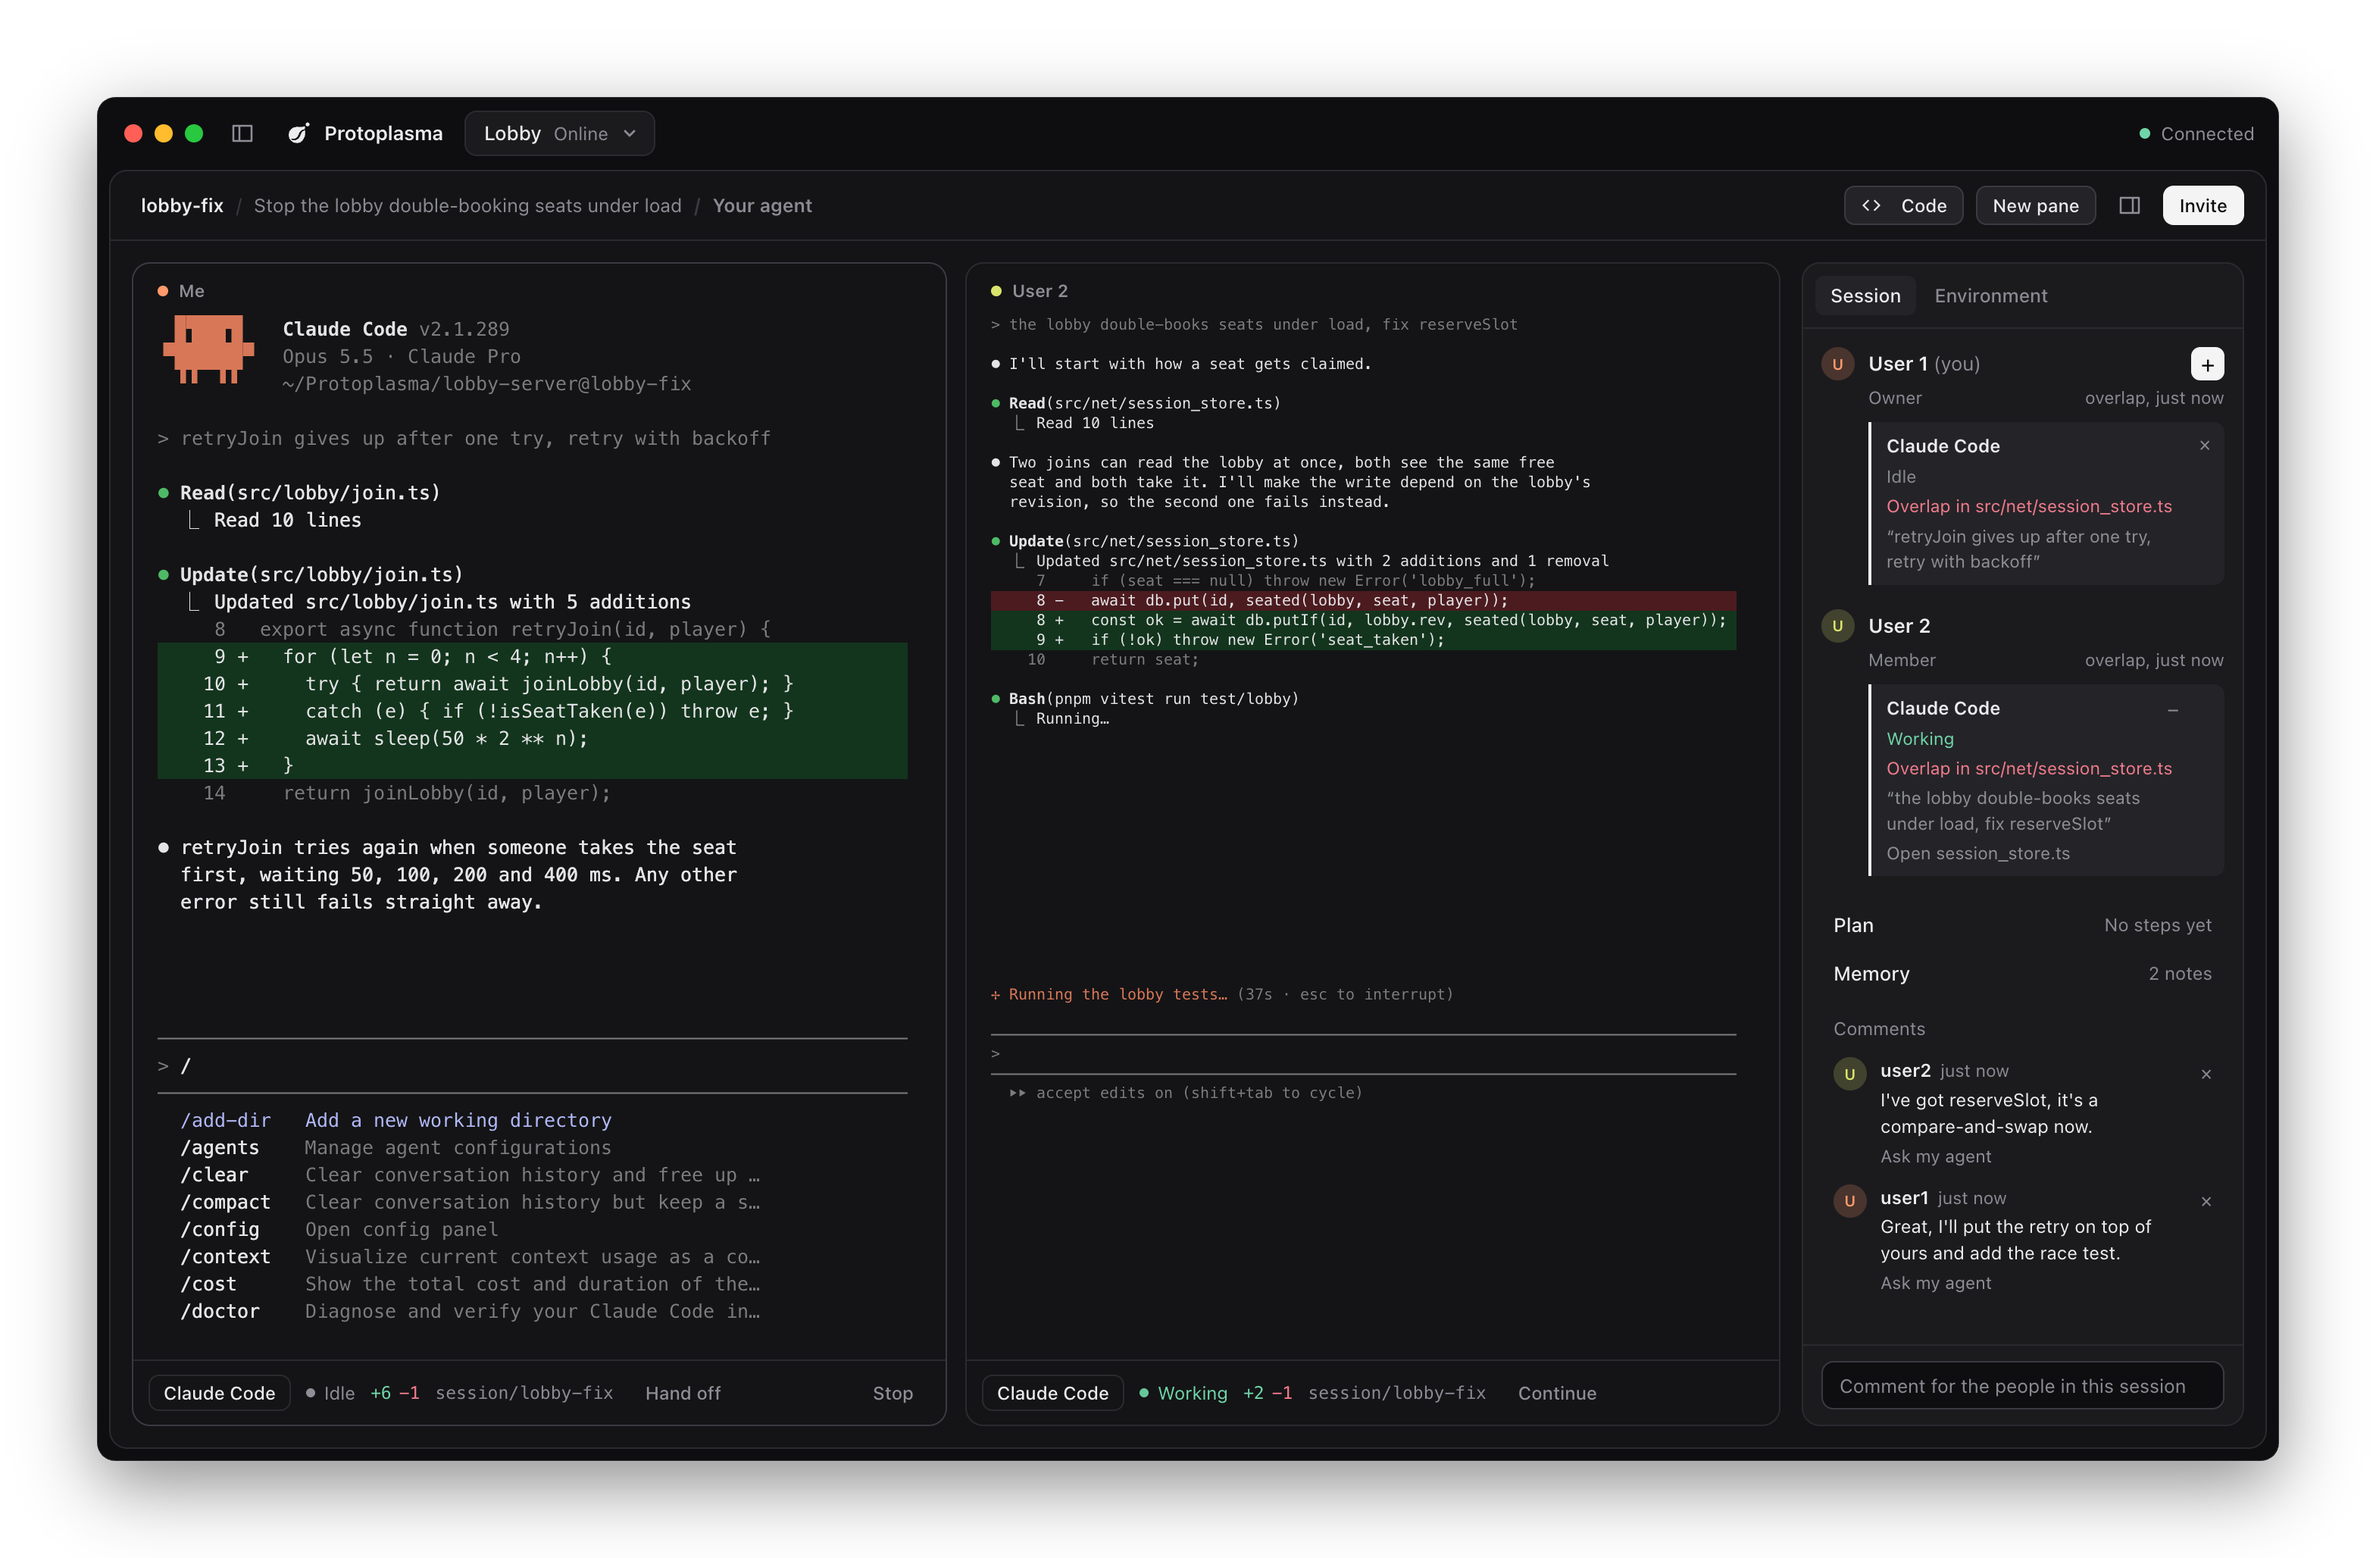
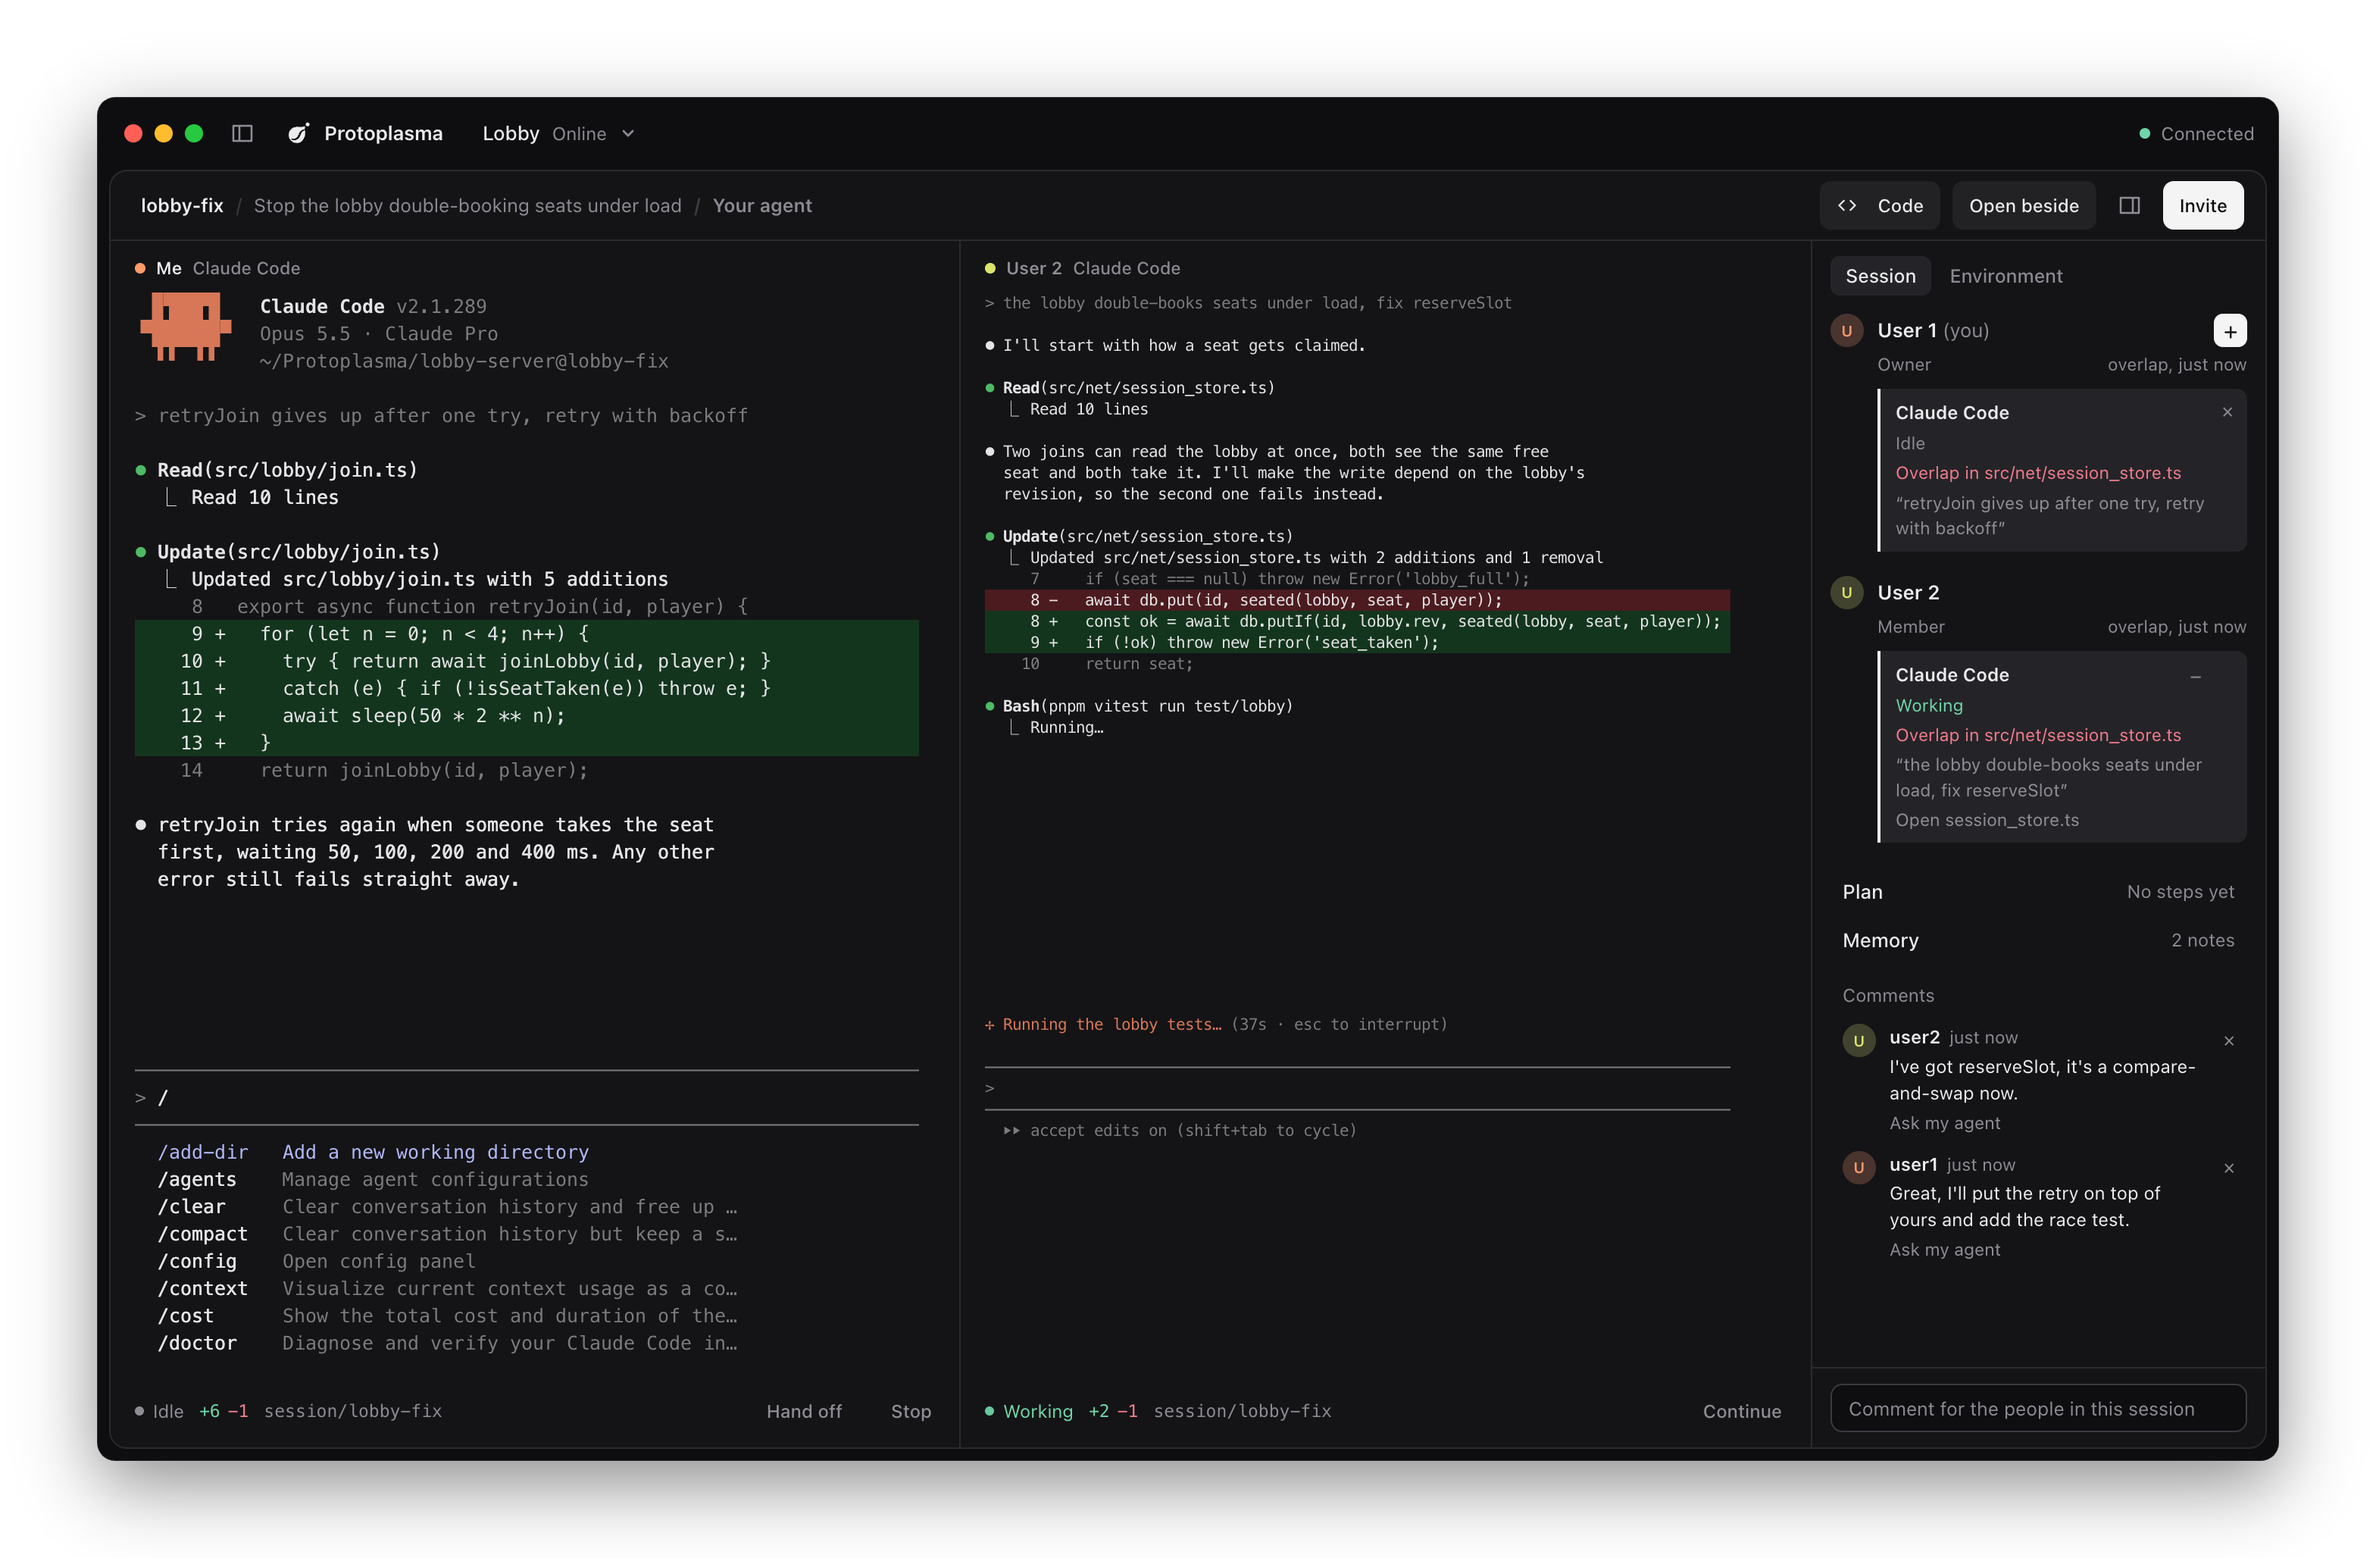
README pictures and demo in the new look, crops re-measured; 0.7.0 notes and the handoff cover the redesign

diff --git a/scripts/readme-art/overlap.html b/scripts/readme-art/overlap.html
@@ -15,13 +15,13 @@
     <div class="glow" style="left: 520px; top: 220px; width: 360px; height: 360px"></div>
   </div>
   <!-- the sidebar alert, the session card on the board, and both agents in the session panel -->
-  <div class="crop" data-src="sessions" data-x="18" data-y="246" data-w="458" data-h="114" data-s="1.5" style="left: 132px; top: 104px; --ring: var(--red-ring)"></div>
-  <div class="crop" data-src="sessions" data-x="1316" data-y="244" data-w="727" data-h="526" data-s="1.5" style="left: 132px; top: 214px">
-    <i class="mark" data-x="1331" data-y="592" data-w="697" data-h="54"></i>
+  <div class="crop" data-src="sessions" data-x="16" data-y="242" data-w="464" data-h="150" data-s="1.5" style="left: 132px; top: 104px; --ring: var(--red-ring)"></div>
+  <div class="crop" data-src="sessions" data-x="1316" data-y="244" data-w="727" data-h="452" data-s="1.5" style="left: 132px; top: 234px">
+    <i class="mark" data-x="1331" data-y="510" data-w="697" data-h="54"></i>
   </div>
-  <div class="crop" data-src="session" data-x="2252" data-y="220" data-w="580" data-h="826" data-s="1.4" style="left: 740px; top: 68px">
-    <i class="mark" data-x="2354" data-y="516" data-w="408" data-h="44"></i>
-    <i class="mark" data-x="2354" data-y="863" data-w="408" data-h="44"></i>
+  <div class="crop" data-src="session" data-x="2262" data-y="220" data-w="592" data-h="826" data-s="1.4" style="left: 740px; top: 68px">
+    <i class="mark" data-x="2364" data-y="474" data-w="400" data-h="44"></i>
+    <i class="mark" data-x="2364" data-y="819" data-w="400" data-h="44"></i>
   </div>
 </div>
 <script src="crop.js"></script>

diff --git a/scripts/readme-art/agents.html b/scripts/readme-art/agents.html
@@ -14,8 +14,8 @@
     <div class="glow" style="left: 600px; top: 200px; width: 640px; height: 520px"></div>
   </div>
   <!-- your Claude Code: its banner and an edit, then its own / menu and status bar -->
-  <div class="crop" data-src="session" data-x="46" data-y="218" data-w="1076" data-h="876" data-s="1.1" style="left: 90px; top: 24px"></div>
-  <div class="crop" data-src="session" data-x="46" data-y="1244" data-w="1076" data-h="510" data-s="1.05" style="left: 600px; top: 420px"></div>
+  <div class="crop" data-src="session" data-x="18" data-y="192" data-w="1120" data-h="900" data-s="1.1" style="left: 90px; top: 24px"></div>
+  <div class="crop" data-src="session" data-x="18" data-y="1250" data-w="1120" data-h="530" data-s="1.05" style="left: 600px; top: 420px"></div>
 </div>
 <script src="crop.js"></script>
 </body>

diff --git a/scripts/readme-art/code.html b/scripts/readme-art/code.html
@@ -16,7 +16,7 @@
   <!-- the Explorer and the editor -->
   <div class="crop" data-src="code" data-x="501" data-y="188" data-w="1781" data-h="1000" data-s="1.15" style="left: 72px; top: 36px"></div>
   <!-- the session panel under the code, beside your agent -->
-  <div class="crop" data-src="code" data-x="2248" data-y="1215" data-w="598" data-h="545" data-s="1.05" style="left: 840px; top: 382px"></div>
+  <div class="crop" data-src="code" data-x="2263" data-y="1215" data-w="584" data-h="545" data-s="1.05" style="left: 840px; top: 382px"></div>
 </div>
 <script src="crop.js"></script>
 </body>

diff --git a/HANDOFF.md b/HANDOFF.md
@@ -1,9 +1,28 @@
-# Handoff: Protoplasma IDE, 16 November 2026
+# Handoff: Protoplasma IDE, 16 November 2026 (evening)
 
 Read this first in a new session, then [AGENTS.md](AGENTS.md) for how the code fits together. What the last sessions
 did: [docs/sessions/2026-10-29.md](docs/sessions/2026-10-29.md) (the second security audit),
 [docs/sessions/2026-10-26.md](docs/sessions/2026-10-26.md) (19–26 Oct) and
 [docs/sessions/2026-10-18.md](docs/sessions/2026-10-18.md) (the first security audit).
+
+## 16 Nov 2026: the redesign, on `claude/fable-5-2-redesign-dd3b36`, not released
+
+**Start here.** This branch has everything below (it merged the 15 Nov branch, then added the redesign). Nothing is
+pushed; David said not to release yet. The notes for this work: [docs/sessions/2026-11-16-redesign.md](docs/sessions/2026-11-16-redesign.md).
+The review page David approved: claude.ai artifact "Protoplasma Visual Pass" (source in `docs/review/2026-11-16/`).
+- **The look:** flat terminal panes, a flush session panel, soft buttons, quieter alerts; still black and white.
+  The bar under a terminal is status, changes, branch and actions; the CLI's name moved to the label above.
+  **Open beside** replaced New pane. Destructive actions are red (`.btn.danger`).
+- **Just me:** no team needed to start (renderer `isSolo`, `startSolo`); invites show as an alert (`checkInvites`);
+  **Move to a team…** (`moveSession`) carries a session into a team with the same folder and branch.
+- **David's design rule (16 Nov):** minimal but sufficient. Easy for newcomers, every tool still there for experts:
+  simplify by choosing what shows first, never by removing a tool.
+- **Checks:** `npm run e2e` 149 of 149, the customer simulation 93 of 93, `npm test` 123 of 123. README pictures and the demo gif regenerated.
+- **Next:** the code review of everything since 0.6.1 (see the notes file for its outcome), then David's live checks
+  ("Status tells the truth" in [docs/first-install.md](docs/first-install.md), and the first install with Max), then
+  0.7.0 (`npm version minor`; pushing `main` redeploys the hub).
+- **Open decision:** only `dw8-ro` can create Online teams. With Just me, a newcomer who wants to work with someone
+  elsewhere can't make one. Keep it, or open it with a limit per person.
 
 ## Built on 15 Nov 2026, not released: most of the plan
 
@@ -31,8 +50,8 @@ shared.js changed) and a tag releases to installed copies: both are David's call
   `scripts/customer/s3.js` was changed for the new rows and has never been run in that form.
 - The README pictures and the demo gif are from before Plan and Memory moved.
 
-**Start here in a new session:**
-1. **The redesign is half done.** What's built is simpler structure and wording. There has been no visual pass (David
+**Where the 15 Nov work left off (since done on the redesign branch):**
+1. **The redesign was half done.** What's built is simpler structure and wording. There has been no visual pass (David
    asked for sleeker and more modern; colours, spacing and type are as in 0.6.1), and the review page the plan asks
    for was never made. Next: a review page (an artifact) with before and after for U2 (team picker), U4 (one
    "beside"), U7 (a shorter bar under each terminal) and U10 (what to do about an overlap), plus a proposal for the

diff --git a/docs/release-notes/0.7.0.md b/docs/release-notes/0.7.0.md
@@ -1,9 +1,14 @@
-**An agent's status you can trust, one question to start a session, any agent CLI, and a warning before branches conflict.**
+**A simpler, quieter look, no team needed to start, an agent's status you can trust, any agent CLI, and a warning before branches conflict.**
 
 **If you use Codex:** it shows "Hooks need review" once more, for two new hooks (its questions, and interrupts). Pick
 **Trust all and continue**. The four it already trusted are unchanged.
 
 Starting work:
+- **No team needed to start.** Sign in and you're in **Just me**, your own space on this Mac that nobody else sees.
+  Make a team, or join one you're invited to, whenever you want to work with people: "You were added to …" shows in
+  the sidebar. Anyone who already has a team opens it as before.
+- **Move to a team…** in a session's menu carries it into a team: same goal, and your agents there work in the same
+  folder and branch, so the work carries on.
 - **New session asks one thing: what should the agent do?** What you type is the session's goal and the agent's first
   message, so you don't type it twice. The session is named after it (you can still name it yourself), and the rest is
   under More options.
@@ -13,6 +18,16 @@ Starting work:
 - **OpenCode gets hooks**, through a plugin Protoplasma loads for that run: the team's context, a stop before an edit
   that would overlap a teammate's, the push guard, and a status that follows what it's doing. They're written from
   OpenCode 1.19.5's plugin interface and haven't yet run against a live model, so tell us what you see.
+
+The look:
+- **Quieter and roomier.** Terminals sit edge to edge, the session panel is a column of the window, buttons are softer,
+  and alerts keep their colour to a small dot. Still black and white.
+- **The bar under a terminal is shorter.** Whose agent and which CLI sit above it ("Me · Claude Code"); the bar is its
+  status, changes and branch, and what you can do.
+- **Open beside** (was New pane) puts another agent of the session, or another session, next to this one.
+- **Red for what you can't take back:** Sign out, Leave or Delete team, Remove someone and Delete session. Leave team
+  has its own row, away from Switch team.
+- An overlap alert says **Compare versions** and opens the file with the Conflicts list beside it.
 
 Working together:
 - **Conflicts with main, before the pull request.** When your session's commits would conflict with main if merged
